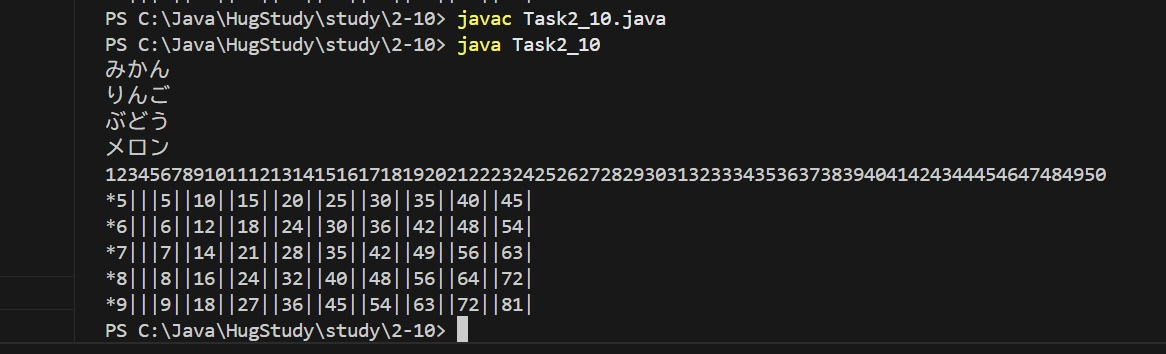
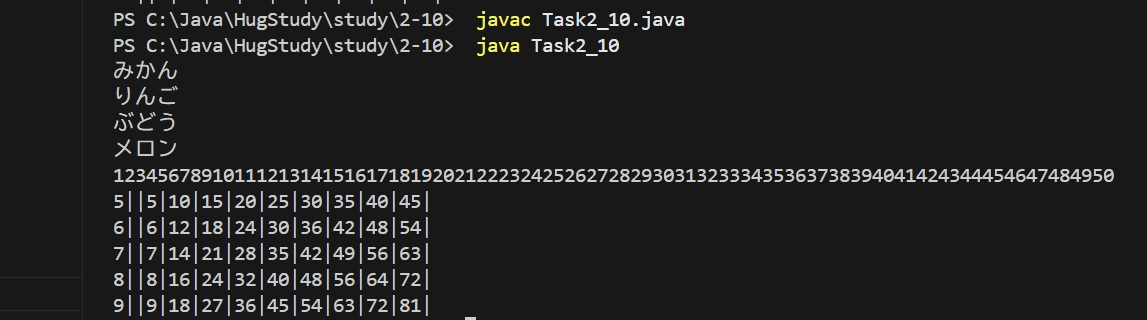
2-10

Changed region(s): [[0.0915, 0.0312, 0.9765, 1.0]]

diff --git a/study/2-10/Task2_10.java b/study/2-10/Task2_10.java
@@ -19,7 +19,7 @@ public class Task2_10 {
 
         // ③ 以下のwhile文の処理について、何をしているのかコメントを記入してください。
         /*
-        * [配列i が50以下の場合、配列i を繰り返し出力する。] 
+        * [iが50以下の間、iの値を出力する処理を繰り返す] 
         */
         int i = 1;
         while(i <= 50) {
@@ -37,9 +37,9 @@ public class Task2_10 {
         * 9 || 9 | 18 | 27 | 36 | 45 | 54 | 63 | 72 | 81 |
         */
         for (int n = 5; n <= 9; n++) {
-    	    System.out.print("*" + n + "||");
+    	    System.out.print(n + "||");
             for (int j = 1; j <= 9; j++) {
-    	        System.out.print( "|" + (n * j) + "|");
+    	        System.out.print( (n * j) + "|");
 	        }
 	        System.out.println();
         }   
